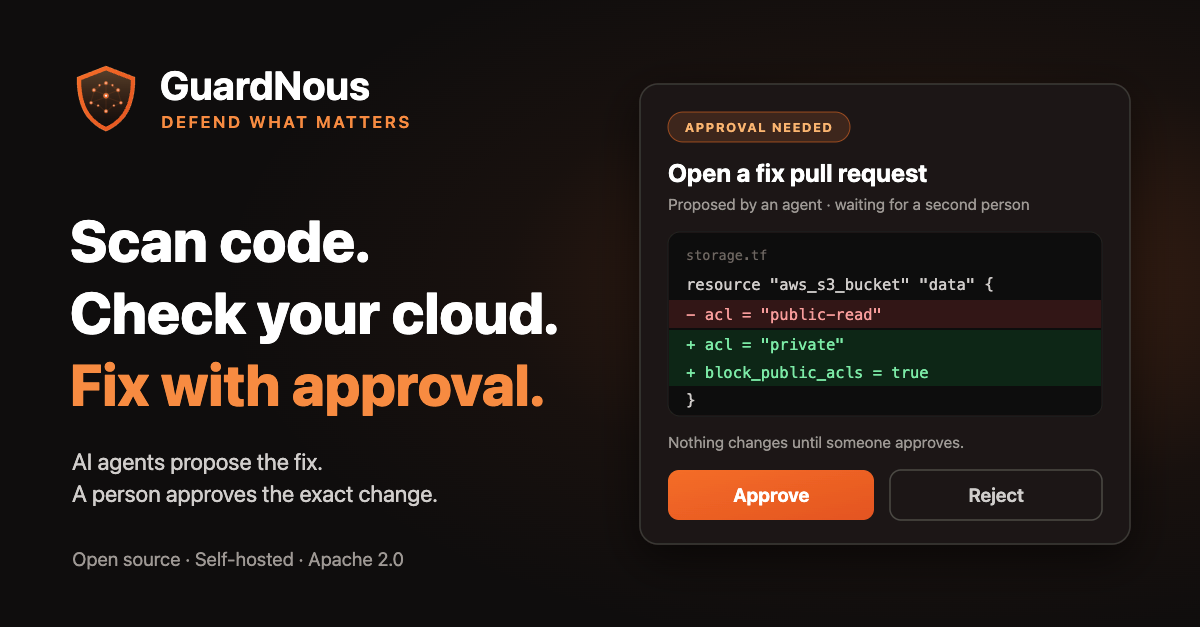
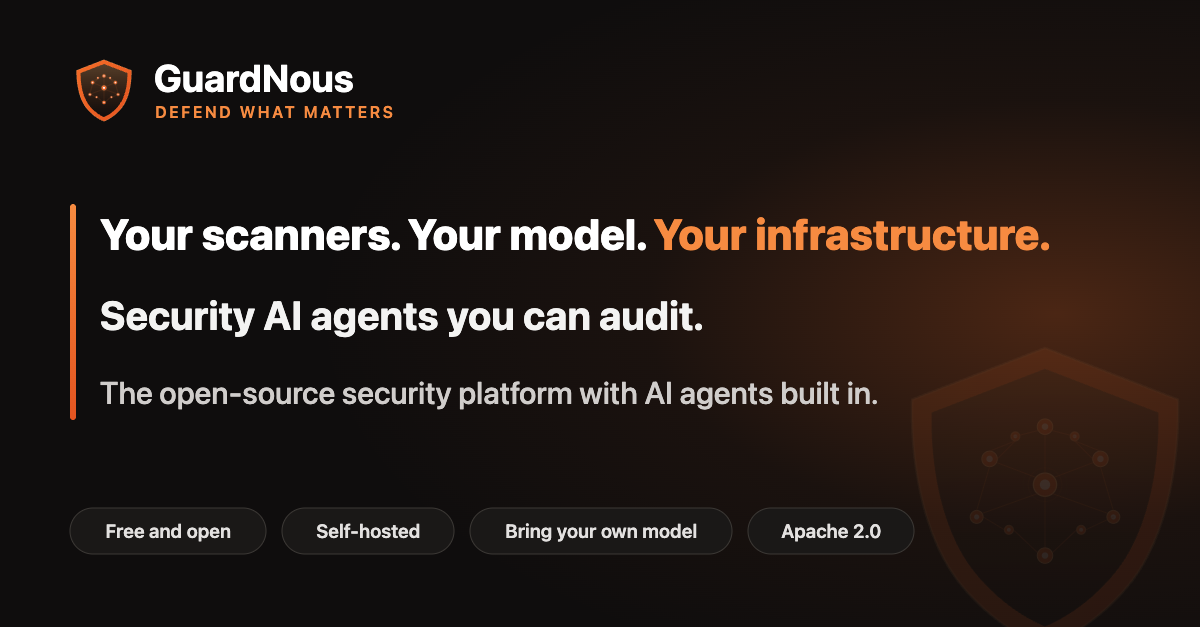
Align headline and preview image with the three statements

Changed region(s): [[0.0308, 0.1212, 0.9867, 1.0], [0.0617, 0.7273, 0.37, 0.9091], [0.0617, 0.0909, 0.3392, 0.2121]]

diff --git a/index.html b/index.html
@@ -3,19 +3,19 @@
 <head>
   <meta charset="UTF-8">
   <meta name="viewport" content="width=device-width, initial-scale=1.0">
-  <title>GuardNous — Code Scanning, Cloud Posture and Approval-Gated AI Agents</title>
+  <title>GuardNous — Open-Source Security Platform with AI Agents You Can Audit</title>
   <meta name="description" content="Open-source, self-hosted security platform. Scans code and IaC with the scanners you trust, checks live AWS accounts against 44 rules without access keys, and runs AI agents that fix issues only after a person approves the exact change.">
   <meta name="keywords" content="cloud security, CSPM, cloud posture, IaC security, DevSecOps, vulnerability management, open source, SAST, SCA, SBOM, compliance, CIS AWS, AI agents, human in the loop, OIDC federation">
 
   <!-- Open Graph -->
   <meta property="og:title" content="GuardNous — Defend What Matters">
-  <meta property="og:description" content="Scan code. Check your cloud. Fix with approval. Open source and self-hosted.">
+  <meta property="og:description" content="Your scanners. Your model. Your infrastructure. Security AI agents you can audit. The open-source security platform with AI agents built in.">
   <meta property="og:type" content="website">
   <meta property="og:url" content="https://guardnous.github.io">
   <meta property="og:image" content="https://guardnous.github.io/assets/images/og-image.png">
   <meta property="og:image:width" content="1200">
   <meta property="og:image:height" content="627">
-  <meta property="og:image:alt" content="GuardNous. Scan code. Check your cloud. Fix with approval. An agent proposes a fix pull request and a person approves the exact change.">
+  <meta property="og:image:alt" content="GuardNous. Your scanners. Your model. Your infrastructure. Security AI agents you can audit. The open-source security platform with AI agents built in.">
   <meta name="twitter:card" content="summary_large_image">
   <meta name="twitter:image" content="https://guardnous.github.io/assets/images/og-image.png">
 
@@ -69,16 +69,18 @@
       <div class="hero-content reveal">
         <div class="hero-badge">
           <span class="hero-badge-dot"></span>
-          Open Source &middot; Self-Hosted &middot; Enterprise-Grade
+          Open Source &middot; Self-Hosted &middot; Bring Your Own Model
         </div>
         <h1>
-          Stop managing scanners.<br>
-          Start managing <span class="text-gradient">risk.</span>
+          Your scanners. Your model.<br>
+          Your <span class="text-gradient">infrastructure.</span>
         </h1>
         <p>
-          GuardNous scans your code with the scanners you already trust, checks your live cloud accounts
-          without access keys, and gives you AI agents that fix what they find, but only after a person
-          approves the exact change.
+          <strong>Security AI agents you can audit.</strong> GuardNous is the open-source security
+          platform with AI agents built in. It runs the scanners you already trust, checks your live
+          cloud accounts without access keys, and lets agents fix what they find, with the model you
+          choose, on your own infrastructure. Every agent action is recorded, and nothing changes
+          until a person approves the exact change.
         </p>
         <div class="hero-actions">
           <a href="https://github.com/guardnous" target="_blank" class="btn-primary">
@@ -668,9 +670,9 @@
     <div class="container">
       <div class="text-center reveal">
         <span class="section-label">Architecture</span>
-        <h2 class="section-title">Built for <span class="text-gradient">production</span></h2>
+        <h2 class="section-title">Built to run on <span class="text-gradient">your infrastructure</span></h2>
         <p class="section-subtitle mx-auto">
-          Modern, containerized architecture designed for horizontal scaling, zero vendor lock-in, and enterprise deployment.
+          Six containers, one command. Your database, your model, your network. No vendor lock-in.
         </p>
       </div>
       <div class="arch-visual reveal">
@@ -835,7 +837,7 @@
     <div class="container">
       <div class="cta-card reveal">
         <h2>Ready to take control of your <span class="text-gradient">security posture</span>?</h2>
-        <p>Deploy GuardNous in minutes. Self-hosted, open source, enterprise-grade. No credit card, no sales call.</p>
+        <p>Free and open source. Self-hosted, with the model you choose. No credit card, no sales call.</p>
         <div class="cta-actions">
           <a href="https://github.com/guardnous" target="_blank" class="btn-primary">
             <svg width="18" height="18" viewBox="0 0 24 24" fill="currentColor"><path d="M12 0C5.37 0 0 5.37 0 12c0 5.31 3.435 9.795 8.205 11.385.6.105.825-.255.825-.57 0-.285-.015-1.23-.015-2.235-3.015.555-3.795-.735-4.035-1.41-.135-.345-.72-1.41-1.23-1.695-.42-.225-1.02-.78-.015-.795.945-.015 1.62.87 1.845 1.23 1.08 1.815 2.805 1.305 3.495.99.105-.78.42-1.305.765-1.605-2.67-.3-5.46-1.335-5.46-5.925 0-1.305.465-2.385 1.23-3.225-.12-.3-.54-1.53.12-3.18 0 0 1.005-.315 3.3 1.23.96-.27 1.98-.405 3-.405s2.04.135 3 .405c2.295-1.56 3.3-1.23 3.3-1.23.66 1.65.24 2.88.12 3.18.765.84 1.23 1.905 1.23 3.225 0 4.605-2.805 5.625-5.475 5.925.435.375.81 1.095.81 2.22 0 1.605-.015 2.895-.015 3.3 0 .315.225.69.825.57A12.02 12.02 0 0024 12c0-6.63-5.37-12-12-12z"/></svg>
